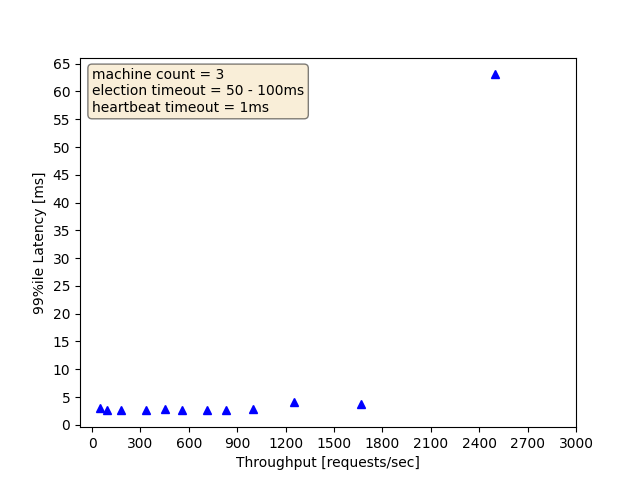
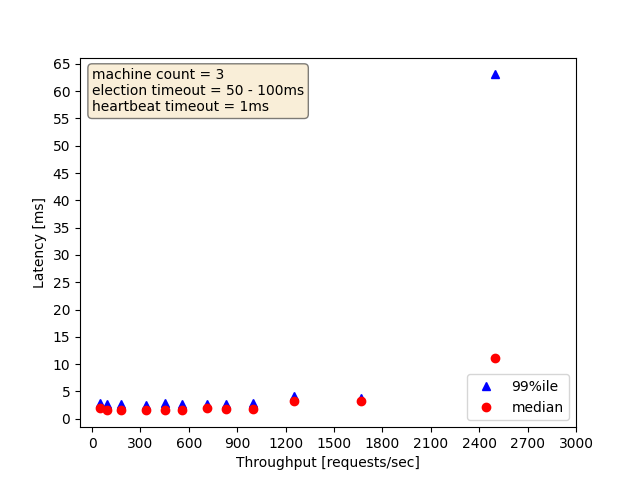
Combining plots

diff --git a/plotting-script/plotting.py b/plotting-script/plotting.py
@@ -93,9 +93,11 @@ def plotLatVsThrput():
 
     # Plotting thrput vs 99 percentile latency
     plt.clf()
-    plt.plot(all_thrput, all_99_quantile_lat, 'b^') # ro=> red dot, bs => blue squares, g^ => green triangles
+    plt.plot(all_thrput, all_99_quantile_lat, 'b^', label='99%ile') # ro=> red dot, bs => blue squares, g^ => green triangles
+    plt.plot(all_thrput, all_median_lat, 'ro', label="median")
+    plt.legend(loc='lower right')
     plt.xlabel("Throughput [requests/sec]")
-    plt.ylabel("99%ile Latency [ms]")
+    plt.ylabel("Latency [ms]")
     plt.xticks(np.arange(0, 3001, step=300))
     plt.yticks(np.arange(0, 67, step=5))
     textstr = f'machine count = {machine_count}\n' + \
@@ -107,5 +109,5 @@ def plotLatVsThrput():
 
 if __name__ == "__main__":
     plotLatVsThrput()
-    plotThrouhputOverTime()
+    # plotThrouhputOverTime()
     
